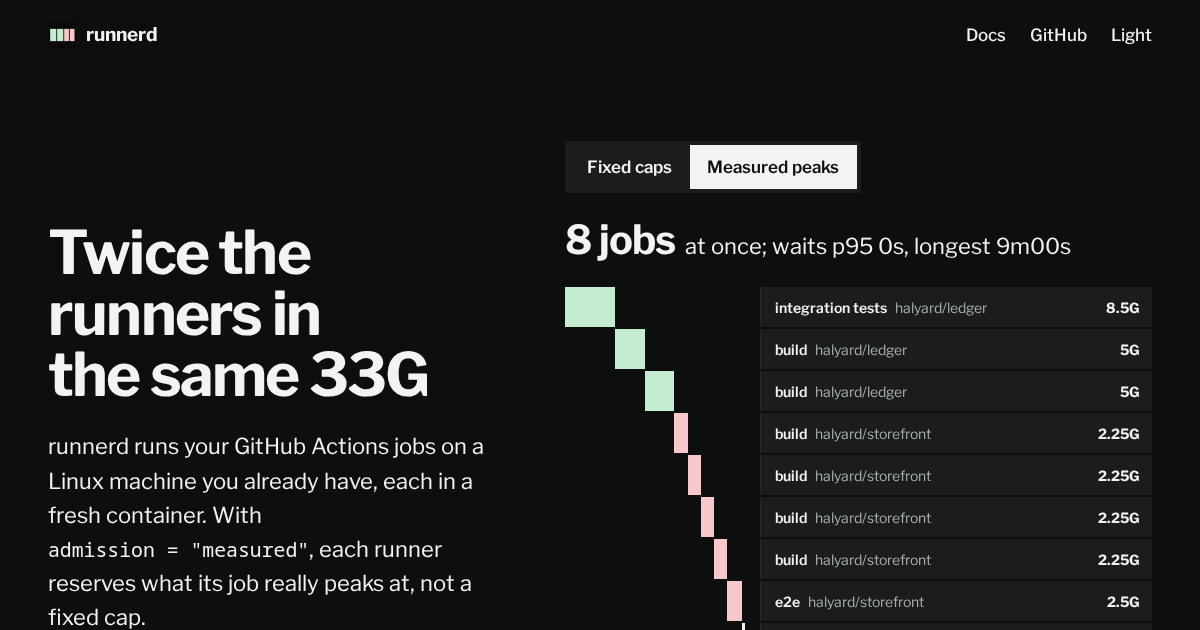
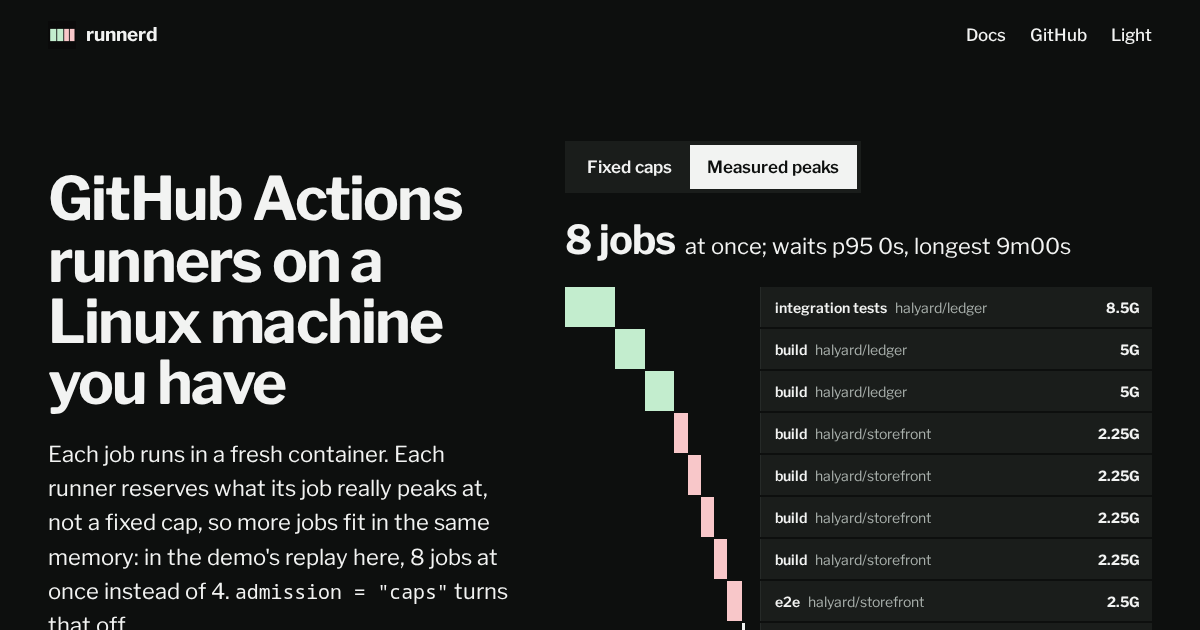
feat: the landing page says who it is for first and shows a second machine (#371)
* feat: the landing page says who it is for first and shows a second machine

The hero now says what runnerd is before any figure, and a line under the
first call to act names what a machine needs (Linux with systemd and
cgroup v2, Docker, Sysbox, the GitHub CLI, private repositories), linking
to the one detailed list in the install section. The 8-against-4 figure
is computed from the demo replay and called a demo example.

The cancel and re-run section gives its place to a desktop plus laptop
overflow story: init --overflow, machine add, fleet, the overflow [host]
keys and TUI m, linking to guides/second-machine and guides/machines.
Its part-cancel shot is no longer used, so it leaves the capture list.

The footer drops its hardcoded version, which went stale each release.

* fix: the landing page's second machine shows each host's commands and real fleet output

The laptop and the desktop get their own copy blocks. The laptop's runs
the normal setup with --overflow and starts its daemon. The desktop's
machine add is labelled optional, since the machines share nothing but
GitHub and overflow works without it.

runnerctl fleet's output is now captured from the demo daemon by
capture.sh, in the scratch home so no real machines.toml is read, and
the page shows it labelled as the demo's one machine. The copy also says
that m opens the TUI's machine picker and Enter reads the chosen one.

* fix: the landing page starts runnerd only after init's root commands
[…]

Changed region(s): [[0.0308, 0.2714, 0.4008, 0.6635], [0.0308, 0.6937, 0.4317, 1.0]]

diff --git a/site/src/styles/landing.css b/site/src/styles/landing.css
@@ -214,6 +214,18 @@ html:not(.js) .theme {
   max-width: 34ch;
 }
 
+/* Who it is for, under the first call to act: one line, the details at #needs. */
+.fits {
+  margin-top: 1.5rem;
+  max-width: 44ch;
+  font-size: var(--step-small);
+  color: var(--muted);
+}
+
+.fits a {
+  color: var(--ink);
+}
+
 /* A setting reads as one word. */
 .lead code {
   white-space: nowrap;
